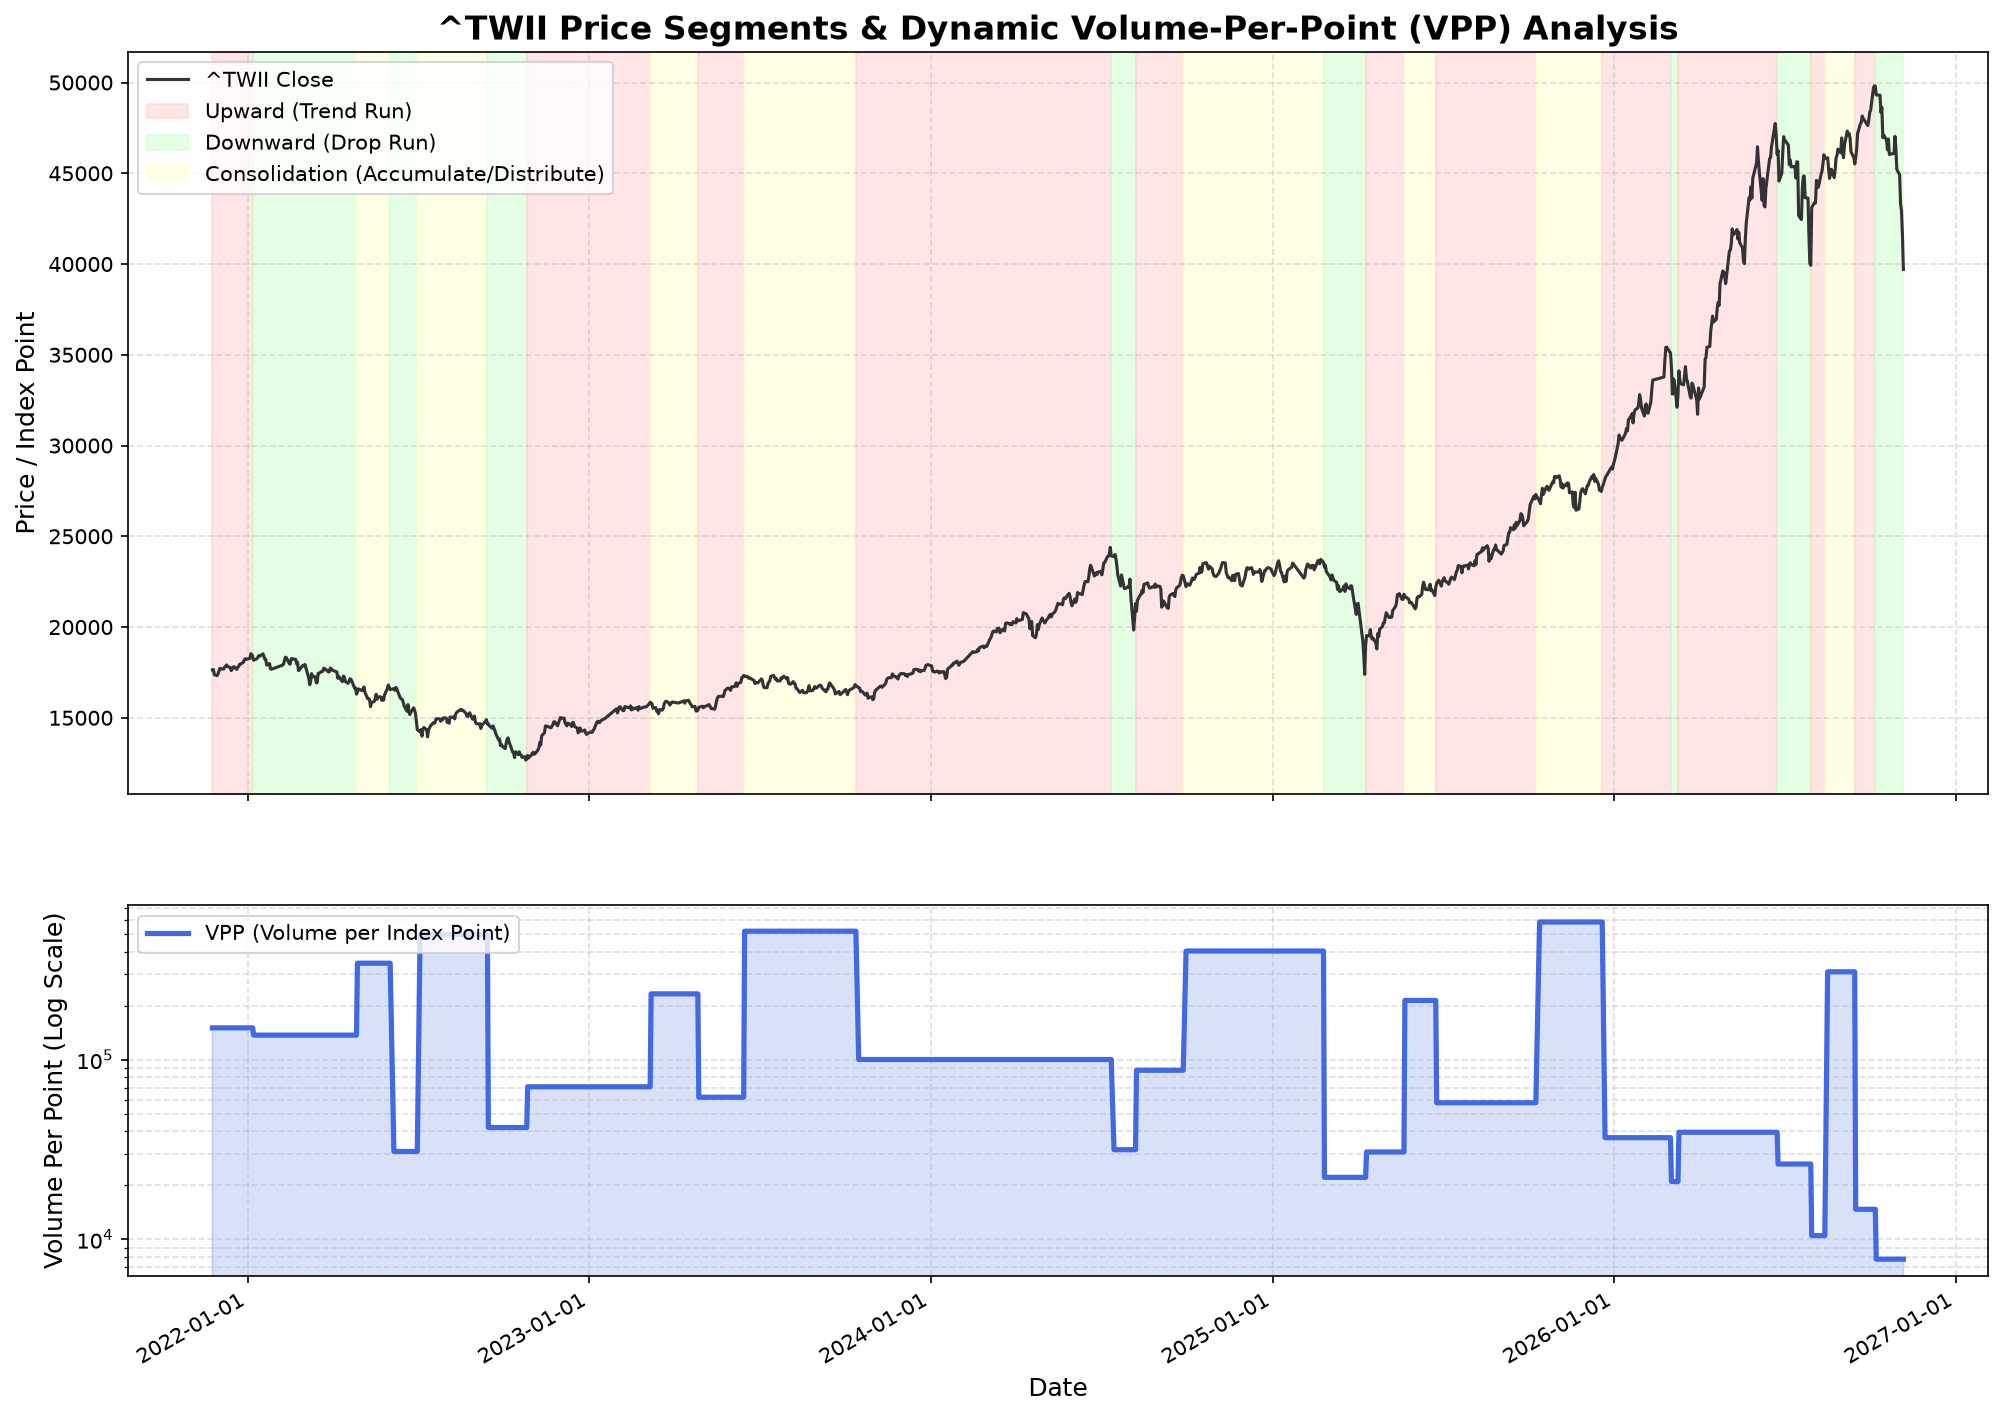
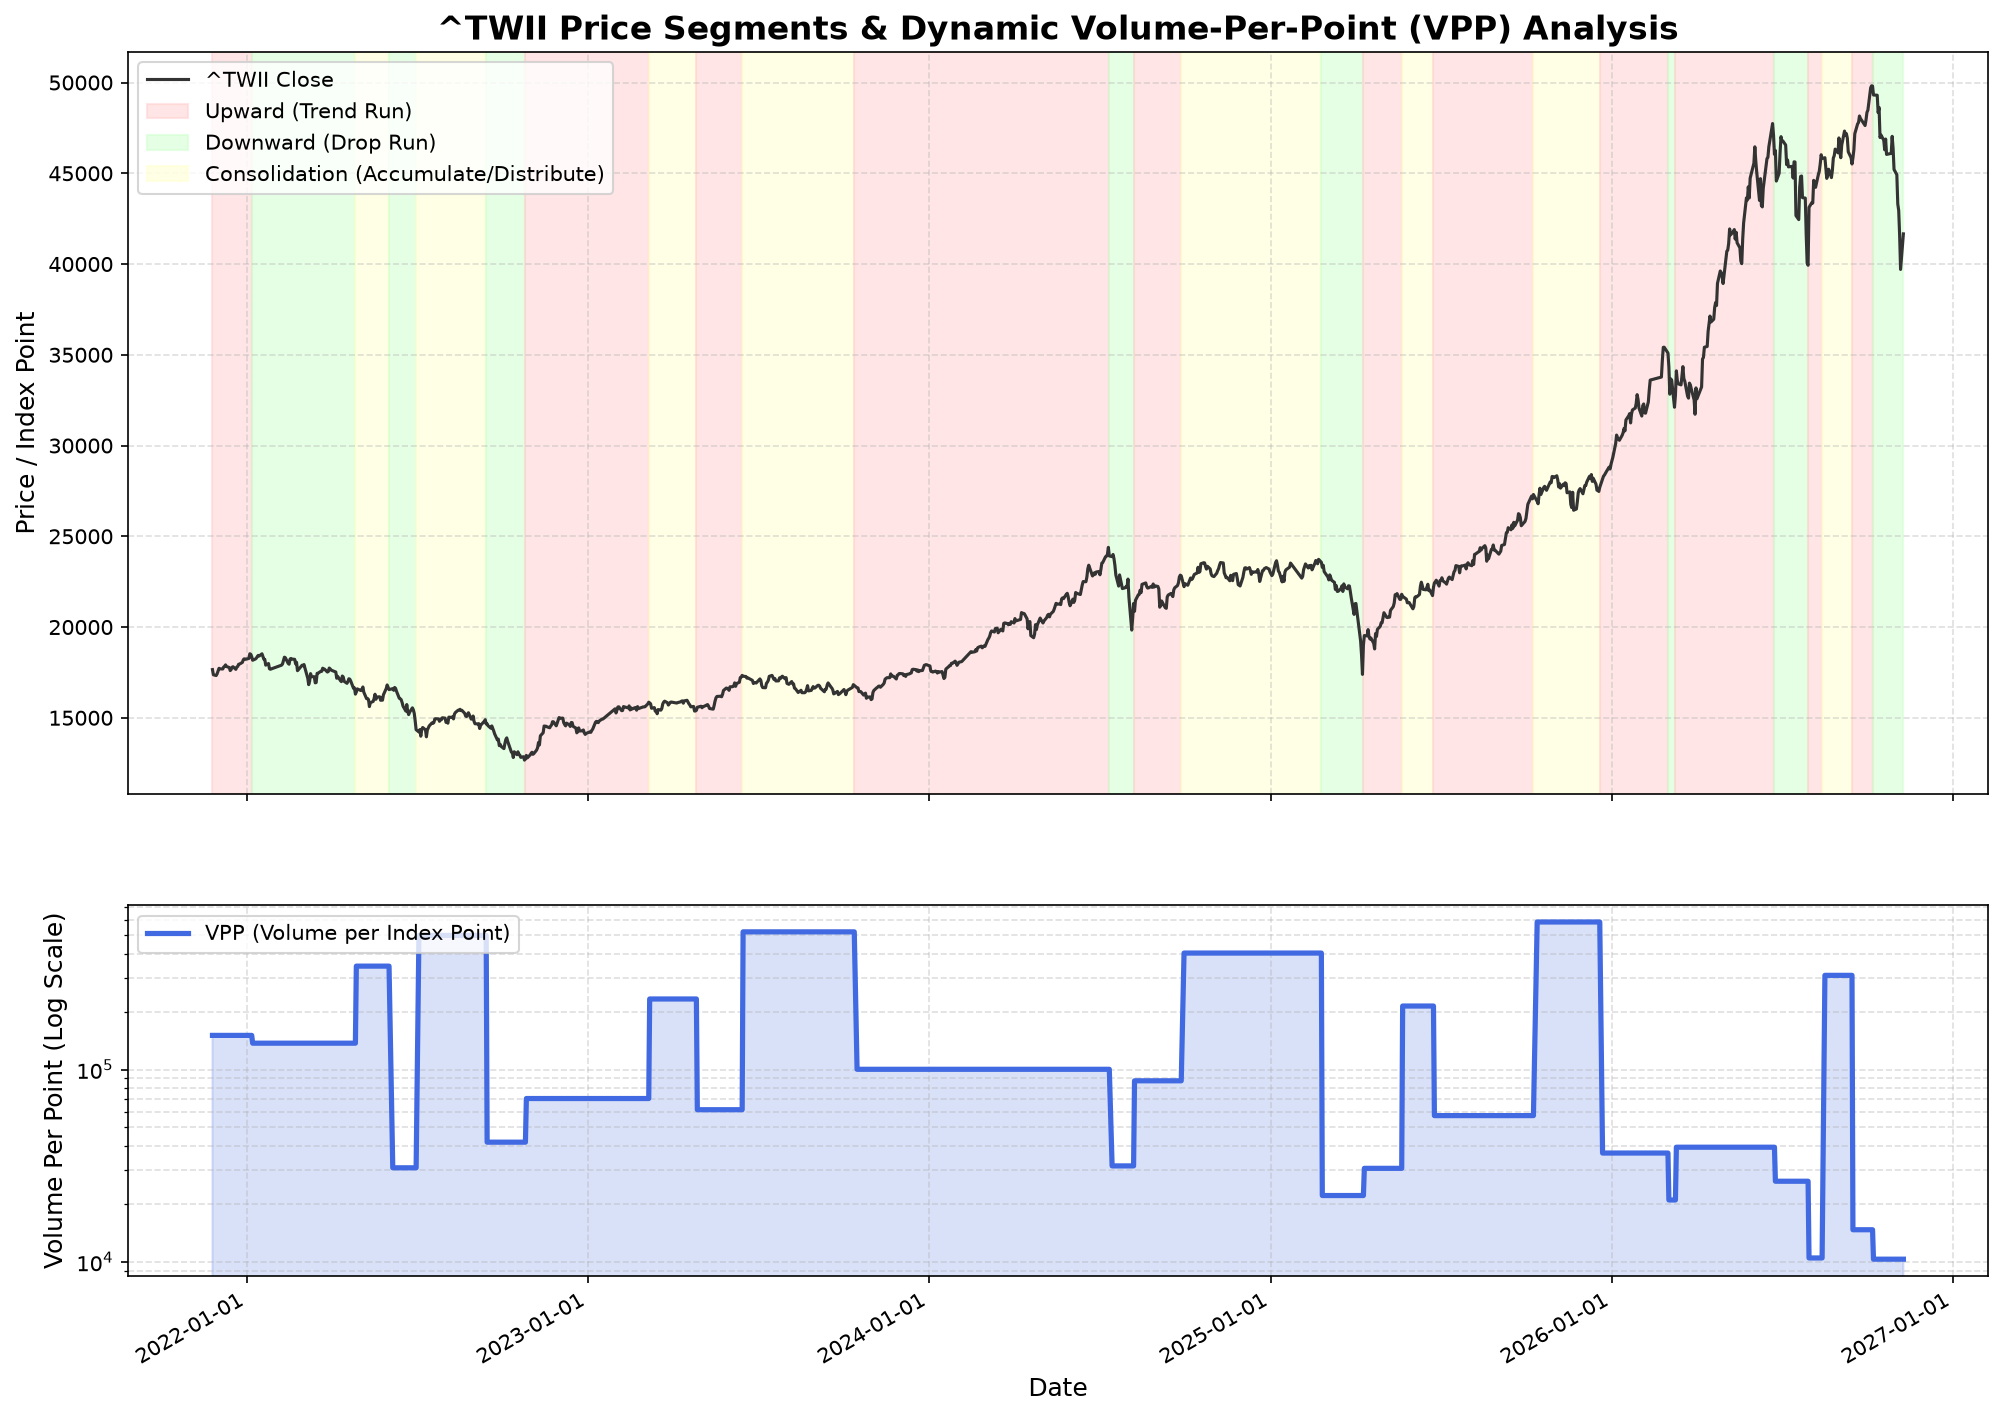
Auto-update momentum report & analysis (2026-11-09)

diff --git a/momentum.html b/momentum.html
@@ -57,7 +57,7 @@
                     <i class="fa-solid fa-bolt text-red-500"></i> 台股量價動能趨勢預估報告
                 </h1>
                 <p class="text-sm text-gray-400 mt-1">
-                    標的：加權指數 (^TWII) ｜ 模型：量價效率與波動對稱預估模型 ｜ 更新日期：2026-11-06
+                    標的：加權指數 (^TWII) ｜ 模型：量價效率與波動對稱預估模型 ｜ 更新日期：2026-11-09
                 </p>
             </div>
             <div class="flex items-center gap-3">
@@ -116,7 +116,7 @@
 ================================================================================
 【1. 量價效率分析 (Volume-Per-Point, VPP)】
   * 上漲波段: 平均移動 1 點需消耗 90,879 股之成交量
-  * 下跌波段: 平均移動 1 點需消耗 87,578 股之成交量
+  * 下跌波段: 平均移動 1 點需消耗 87,750 股之成交量
   * 盤整波段: 平均移動 1 點需消耗 1,376,197 股之成交量
   * 💡 學術結論：盤整段之 VPP 為上漲段的 15.1 倍、下跌段的 15.7 倍，極端證明了盤整區確實是高摩擦力的「籌碼吸納/主力出貨期」！
 --------------------------------------------------------------------------------
@@ -127,8 +127,8 @@
 --------------------------------------------------------------------------------
 【2-B. 波動等幅對稱分析 (二波段等幅規律 - 下跌趨勢)】
   * 樣本數: 14 次對接波段
-  * 平均等幅比率 (後波幅 / 前波幅): 171.57%
-  * 波動等幅對稱符合度 (漲跌幅在 80%~125% 內比例): 35.71%
+  * 平均等幅比率 (後波幅 / 前波幅): 169.45%
+  * 波動等幅對稱符合度 (漲跌幅在 80%~125% 內比例): 42.86%
 --------------------------------------------------------------------------------
 【3. 動能枯竭與接續判斷預測準確度】
   * 當波段動能（成交量）低於前波同類波段時，預測將進入「盤整或反轉」：
@@ -137,16 +137,16 @@
 ================================================================================
 
   [短線動能預警 (3% 領先燈號)]
-  * 短線波段狀態: 短線拉回下跌
-  * 短線轉折日期: 2026-11-05 (基準價 42,873.81)
-  * 短線累計漲跌: -7.40%
+  * 短線波段狀態: 短線止跌上漲
+  * 短線轉折日期: 2026-11-06 (基準價 37,837.05)
+  * 短線累計漲跌: +10.11%
   * 短線持續天數: 1 天
 --------------------------------------------------------------------------------
 【4. 波段機率落點與資金規劃分析 (Probabilistic Target &amp; Capital Planning)】
   * 目前波段型態: 【下跌趨勢波段】
   * 本波段起始點: 49,806.37 (2026-10-07)
   * 前一波下跌段幅: 13.27% (對稱基準點)
-  * 當前最新收盤價: 39,701.64 (目前跌幅: 20.29%, 目前對稱比率: 152.90%)
+  * 當前最新收盤價: 41,661.70 (目前跌幅: 16.35%, 目前對稱比率: 123.21%)
 
   * 💡 歷史波段對稱性機率落點與勝率列表 (Win Rate Targets):
     -----------------------------------------------------------------------------------------------
@@ -158,7 +158,7 @@
     70%                  | 0.9504          | 12.61           % | 43,524.89             | 🔴 已達成
     60%                  | 0.9858          | 13.08           % | 43,291.13             | 🔴 已達成
     50%                  | 1.1877          | 15.76           % | 41,956.35             | 🔴 已達成
-    40%                  | 1.5290          | 20.29           % | 39,700.66             | ⚪ 未達成
+    40%                  | 1.2321          | 16.35           % | 41,663.03             | 🔴 已達成
     30%                  | 1.7673          | 23.45           % | 38,125.51             | ⚪ 未達成
     20%                  | 2.0045          | 26.60           % | 36,557.81             | ⚪ 未達成
     10%                  | 3.6806          | 48.84           % | 25,479.90             | ⚪ 未達成
